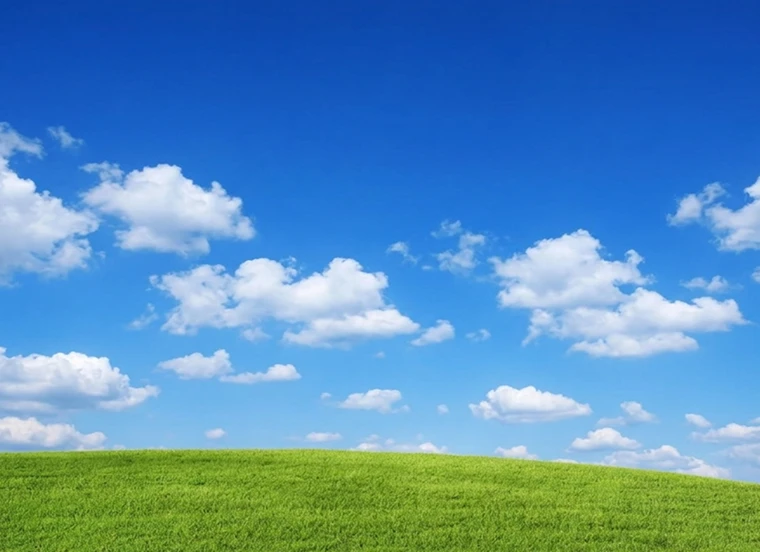
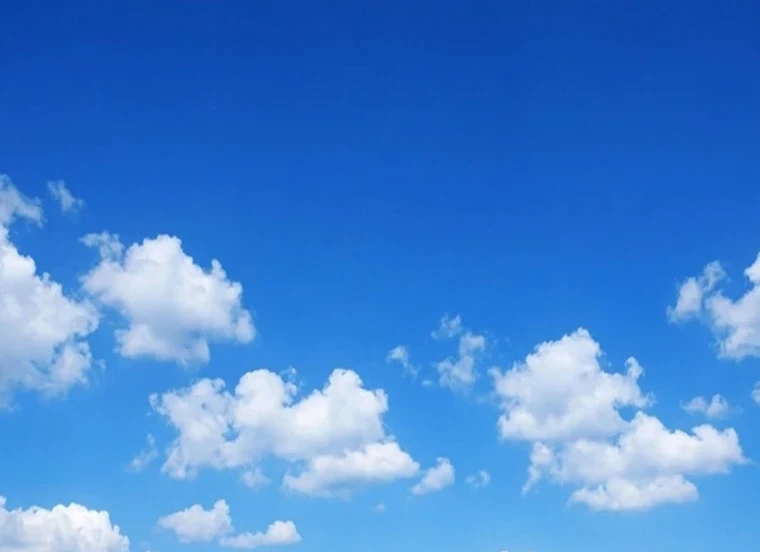
v63: category folder redesign, hero text trim, mobile fixes
Sitewide:
- Hero role line shortened to just "Visual Communication Designer"
  (desktop only visible — already hidden on mobile since v62)
- Category folder tiles: heading/name text back to black (was blue-violet),
  folder icon less flat (taller aspect-ratio + non-uniform SVG stretch),
  number now white and tucked behind the folder's bottom-left corner
  instead of a separate metallic line above the name

Mobile-only:
- Fixed a stray green rectangle showing through the iBook screen below
  the WELCOME lettering — re-cropped sky-clean.webp to sky/clouds only,
  no grass, so any uncovered gap just blends into sky
- Resume work/research entries: explicit left-align, responsibility
  bullet list tinted blue (accent) to separate it from plain notes

diff --git a/css/style.css b/css/style.css
@@ -600,25 +600,35 @@ body::before {
    layered over it for real depth. Lifts and tilts open (with a colored
    glow in the category's own color) on hover. */
 .cat-tile-icon {
-  width: 96px; aspect-ratio: 100 / 78; margin: 0 auto 12px;
+  position: relative;
+  width: 96px; aspect-ratio: 100 / 96; margin: 0 auto 12px;
   filter: drop-shadow(0 10px 14px rgba(150,110,10,.28));
   transition: transform .3s cubic-bezier(.2,.8,.2,1), filter .3s;
   transform-origin: 50% 100%;
 }
-.cat-tile-icon-svg { width: 100%; height: 100%; display: block; opacity: .88; }
+/* preserveAspectRatio="none" lets the folder stretch to the taller box
+   above (was a flat 100:78, now 100:96) instead of letterboxing inside
+   it — a proper less-squashed folder rather than a flat icon floating in
+   extra empty space. */
+.cat-tile-icon-svg { position: relative; z-index: 1; width: 100%; height: 100%; display: block; opacity: .88; }
 .cat-tile:hover .cat-tile-icon {
   transform: scale(1.08) rotate(-3deg) translateY(-3px);
   filter: drop-shadow(0 16px 22px var(--tile-c, rgba(150,110,10,.4)));
 }
 .cat-tile-folder { position: relative; z-index: 2; }
+/* the number now lives tucked behind the folder icon's own bottom-left
+   corner (in DOM order, and therefore paint order, before the svg — see
+   folderSvg()/renderCategoryTiles() in gallery.js) rather than as a
+   separate metallic line of text above the folder name */
 .cat-tile-num {
+  position: absolute; left: -6px; bottom: -8px; z-index: 0;
   font-family: var(--serif); font-style: italic; font-weight: 700;
-  font-size: clamp(19px, 1.7vw, 23px); margin-bottom: 4px;
-  background: var(--metal-grad); background-clip: text; -webkit-background-clip: text;
-  color: transparent; -webkit-text-fill-color: transparent;
-  filter: drop-shadow(0 1px 1px rgba(20,24,30,.15));
+  font-size: clamp(30px, 3.4vw, 38px); line-height: 1;
+  color: #ffffff;
+  text-shadow: 0 1px 2px rgba(20,24,30,.2);
+  pointer-events: none;
 }
-.cat-tile-name { font-family: var(--serif); font-weight: 500; font-size: 15.5px; color: var(--cat-heading); }
+.cat-tile-name { font-family: var(--serif); font-weight: 500; font-size: 15.5px; color: var(--ink); }
 .cat-tile-en { margin-top: 4px; font-family: var(--mono); font-size: 10.5px; text-transform: uppercase; letter-spacing: .07em; color: var(--ink-50); }
 
 @media (max-width: 900px) {
@@ -816,7 +826,11 @@ body::before {
 @media (max-width: 640px) {
   #work-list .timeline-item,
   #research-list .timeline-item {
-    grid-template-columns: 1fr; gap: 4px;
+    grid-template-columns: 1fr; gap: 4px; text-align: left;
+  }
+  #work-list .timeline-item > div,
+  #research-list .timeline-item > div {
+    text-align: left;
   }
   #work-list .timeline-period-stacked,
   #research-list .timeline-period-stacked {
@@ -826,6 +840,12 @@ body::before {
   #work-list .timeline-period-stacked .tp-sep,
   #research-list .timeline-period-stacked .tp-sep {
     width: 12px; height: 1px;
+  }
+  /* the bullet list is literally "what I did" for each role — a blue
+     tint pulls it apart from the plain gray notes/result text nearby */
+  #work-list .timeline-bullets li,
+  #research-list .timeline-bullets li {
+    color: var(--accent);
   }
 }
 .timeline-bullets li:last-child { margin-bottom: 0; }

diff --git a/js/gallery.js b/js/gallery.js
@@ -311,7 +311,7 @@ function folderSvg(uid) {
   const front = `ff${uid}`;
   const shine = `fs${uid}`;
   return `
-  <svg class="cat-tile-icon-svg" viewBox="0 0 100 78" xmlns="http://www.w3.org/2000/svg">
+  <svg class="cat-tile-icon-svg" viewBox="0 0 100 78" preserveAspectRatio="none" xmlns="http://www.w3.org/2000/svg">
     <defs>
       <linearGradient id="${back}" x1="0" y1="0" x2="0" y2="1">
         <stop offset="0%" stop-color="#e79615"/>
@@ -355,9 +355,11 @@ window.renderCategoryTiles = function (containerId) {
     return `
     <a href="work.html?cat=${c.slug}" class="cat-tile reveal" style="--tile-c: var(--c-${c.slug})">
       <div class="cat-tile-peek">${peekHTML}</div>
-      <div class="cat-tile-icon">${folderSvg(idx)}</div>
-      <div class="cat-tile-folder">
+      <div class="cat-tile-icon">
         <div class="cat-tile-num">${c.num}</div>
+        ${folderSvg(idx)}
+      </div>
+      <div class="cat-tile-folder">
         <div class="cat-tile-name">${lang === "zh" ? c.zh : c.en}</div>
         <div class="cat-tile-en">${lang === "zh" ? c.en : c.zh}</div>
       </div>
@@ -372,9 +374,11 @@ window.renderCategoryTiles = function (containerId) {
   tiles.push(`
     <a href="${window.PHOTOGRAPHY_LINK}" target="_blank" rel="noopener" class="cat-tile cat-tile-external reveal">
       <div class="cat-tile-peek"></div>
-      <div class="cat-tile-icon">${folderSvg("ext")}</div>
-      <div class="cat-tile-folder">
+      <div class="cat-tile-icon">
         <div class="cat-tile-num">★</div>
+        ${folderSvg("ext")}
+      </div>
+      <div class="cat-tile-folder">
         <div class="cat-tile-name">${photoStrings.zh_en_label[lang]}</div>
         <div class="cat-tile-en">${photoStrings.zh_en_label[photoOtherLang]} ↗</div>
       </div>

diff --git a/index.html b/index.html
@@ -5,7 +5,7 @@
 <meta name="viewport" content="width=device-width, initial-scale=1.0">
 <title>Yifan Lyu | Visual Artist &amp; Designer</title>
 <meta name="description" content="Yifan Lyu's portfolio: photography, illustration, book design, exhibitions and interaction design.">
-<link rel="stylesheet" href="css/style.css?v=62">
+<link rel="stylesheet" href="css/style.css?v=63">
 </head>
 <body>
 
@@ -116,11 +116,11 @@
   </div>
 </div>
 
-<script src="js/data.js?v=62"></script>
-<script src="js/welcome-pieces.js?v=62"></script>
-<script src="js/main.js?v=62"></script>
-<script src="js/gallery.js?v=62"></script>
-<script src="js/home.js?v=62"></script>
+<script src="js/data.js?v=63"></script>
+<script src="js/welcome-pieces.js?v=63"></script>
+<script src="js/main.js?v=63"></script>
+<script src="js/gallery.js?v=63"></script>
+<script src="js/home.js?v=63"></script>
 <script>
   document.getElementById("year").textContent = new Date().getFullYear();
   function applyInlineLang() {

diff --git a/work.html b/work.html
@@ -5,7 +5,7 @@
 <meta name="viewport" content="width=device-width, initial-scale=1.0">
 <title>Work — Yifan Lyu</title>
 <meta name="description" content="Yifan Lyu's complete body of work: photography, illustration, book design, exhibitions and interaction design.">
-<link rel="stylesheet" href="css/style.css?v=62">
+<link rel="stylesheet" href="css/style.css?v=63">
 </head>
 <body class="page-work">
 
@@ -90,11 +90,11 @@
   </div>
 </div>
 
-<script src="js/data.js?v=62"></script>
-<script src="js/main.js?v=62"></script>
-<script src="js/lightbox.js?v=62"></script>
-<script src="js/gallery.js?v=62"></script>
-<script src="js/work.js?v=62"></script>
+<script src="js/data.js?v=63"></script>
+<script src="js/main.js?v=63"></script>
+<script src="js/lightbox.js?v=63"></script>
+<script src="js/gallery.js?v=63"></script>
+<script src="js/work.js?v=63"></script>
 <script>document.getElementById("year").textContent = new Date().getFullYear();</script>
 </body>
 </html>

diff --git a/project.html b/project.html
@@ -4,7 +4,7 @@
 <meta charset="UTF-8">
 <meta name="viewport" content="width=device-width, initial-scale=1.0">
 <title>Project — Yifan Lyu</title>
-<link rel="stylesheet" href="css/style.css?v=62">
+<link rel="stylesheet" href="css/style.css?v=63">
 </head>
 <body class="page-project">
 
@@ -97,11 +97,11 @@
   </div>
 </div>
 
-<script src="js/data.js?v=62"></script>
-<script src="js/main.js?v=62"></script>
-<script src="js/lightbox.js?v=62"></script>
-<script src="js/gallery.js?v=62"></script>
-<script src="js/project.js?v=62"></script>
+<script src="js/data.js?v=63"></script>
+<script src="js/main.js?v=63"></script>
+<script src="js/lightbox.js?v=63"></script>
+<script src="js/gallery.js?v=63"></script>
+<script src="js/project.js?v=63"></script>
 <script>document.getElementById("year").textContent = new Date().getFullYear();</script>
 </body>
 </html>

diff --git a/about.html b/about.html
@@ -5,7 +5,7 @@
 <meta name="viewport" content="width=device-width, initial-scale=1.0">
 <title>Resume — Yifan Lyu</title>
 <meta name="description" content="Yifan Lyu: education, work experience, awards and contact.">
-<link rel="stylesheet" href="css/style.css?v=62">
+<link rel="stylesheet" href="css/style.css?v=63">
 </head>
 <body class="page-about">
 
@@ -130,9 +130,9 @@
   </div>
 </div>
 
-<script src="js/data.js?v=62"></script>
-<script src="js/main.js?v=62"></script>
-<script src="js/about.js?v=62"></script>
+<script src="js/data.js?v=63"></script>
+<script src="js/main.js?v=63"></script>
+<script src="js/about.js?v=63"></script>
 <script>document.getElementById("year").textContent = new Date().getFullYear();</script>
 </body>
 </html>

diff --git a/js/data.js b/js/data.js
@@ -31,8 +31,8 @@ window.STRINGS = {
   nav_photography: { zh: "摄影", en: "Photography" },
 
   hero_role: {
-    zh: "视觉艺术家 / 视觉传达设计师",
-    en: "Visual Artist / Visual Communication Designer",
+    zh: "视觉传达设计师",
+    en: "Visual Communication Designer",
   },
   hero_tagline: {
     zh: "在视觉文化与身份认同之间，寻找传统与当代的转译方式。",
